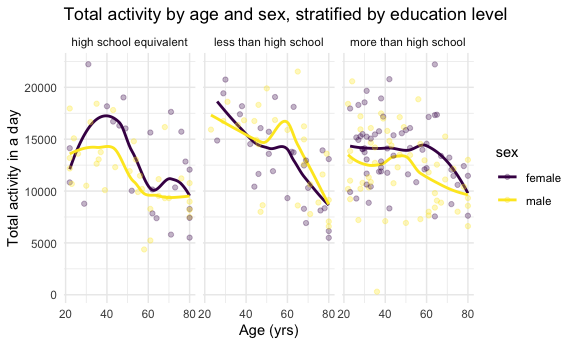
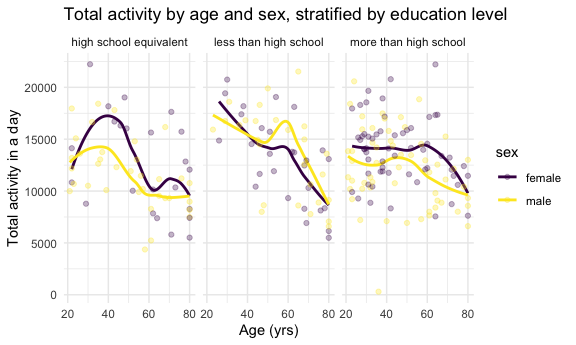
edits to problem 3

diff --git a/p8105_hw3_cc5423.md b/p8105_hw3_cc5423.md
@@ -161,7 +161,7 @@ demo_df =
   janitor::clean_names() |> 
   mutate(sex = recode(sex, `1` = "male", `2` = "female"),
          education = as.factor(recode(education, `1` = "less than high school", `2` = "high school equivalent", `3` = "more than high school"))) |> 
-  filter(age > 21) |> 
+  filter(age >= 21) |> 
   drop_na()
 ```
 
@@ -221,9 +221,9 @@ final_accel_df |>
 | female | high school equivalent |  23 |
 | female | less than high school  |  28 |
 | female | more than high school  |  59 |
-| male   | high school equivalent |  34 |
+| male   | high school equivalent |  35 |
 | male   | less than high school  |  27 |
-| male   | more than high school  |  54 |
+| male   | more than high school  |  56 |
 
 The majority of women have more than a high school degree at (n = 59).
 Similarly, the majority of men have more than a high school degree at (n
@@ -392,28 +392,28 @@ Bike members:
 
 ``` r
 all_df |> 
-  group_by(rideable_type, month, year) |> 
+  group_by(member_casual, month, year) |> 
   summarize(N = n()) |> 
   knitr::kable()
 ```
 
     ## `summarise()` has regrouped the output.
-    ## ℹ Summaries were computed grouped by rideable_type, month, and year.
-    ## ℹ Output is grouped by rideable_type and month.
+    ## ℹ Summaries were computed grouped by member_casual, month, and year.
+    ## ℹ Output is grouped by member_casual and month.
     ## ℹ Use `summarise(.groups = "drop_last")` to silence this message.
-    ## ℹ Use `summarise(.by = c(rideable_type, month, year))` for per-operation
+    ## ℹ Use `summarise(.by = c(member_casual, month, year))` for per-operation
     ##   grouping (`?dplyr::dplyr_by`) instead.
 
-| rideable_type | month | year |     N |
+| member_casual | month | year |     N |
 |:--------------|:------|-----:|------:|
-| classic_bike  | Jan   | 2020 | 12417 |
-| classic_bike  | Jan   | 2024 |  6708 |
-| classic_bike  | Jul   | 2020 | 20113 |
-| classic_bike  | Jul   | 2024 | 16298 |
-| electric_bike | Jan   | 2020 |     3 |
-| electric_bike | Jan   | 2024 | 12153 |
-| electric_bike | Jul   | 2020 |   935 |
-| electric_bike | Jul   | 2024 | 30858 |
+| casual        | Jan   | 2020 |   984 |
+| casual        | Jan   | 2024 |  2108 |
+| casual        | Jul   | 2020 |  5637 |
+| casual        | Jul   | 2024 | 10894 |
+| member        | Jan   | 2020 | 11436 |
+| member        | Jan   | 2024 | 16753 |
+| member        | Jul   | 2020 | 15411 |
+| member        | Jul   | 2024 | 36262 |
 
 The fewest rides for casual riders happened in January 2024 (n = 6708),
 and the most rides for casual riders happened in July 2020 (n = 20113).
